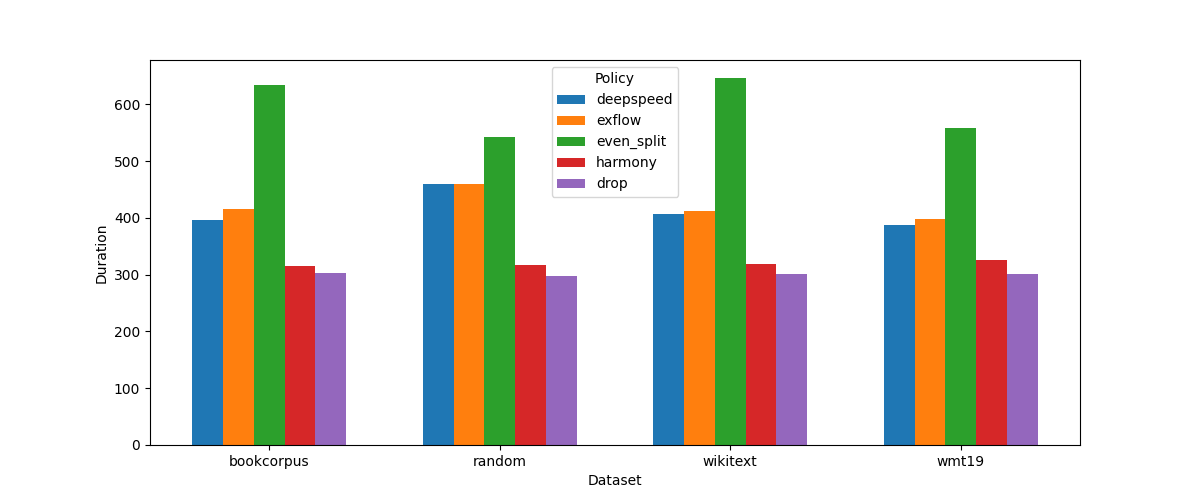
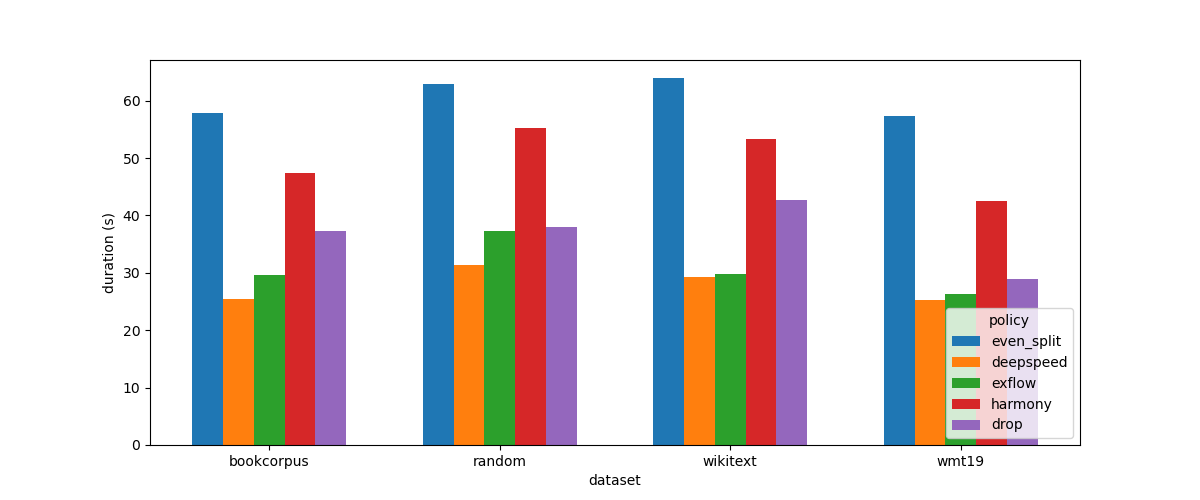
Did some stuff, no idea what, look at the changes?

diff --git a/plotting/plotting/plot_policy_dataset.py b/plotting/plotting/plot_policy_dataset.py
@@ -4,48 +4,51 @@ import pandas as pd
 import numpy as np
 from utils import save_plot
 
-policies = ["deepspeed", "exflow", "even_split", "harmony", "drop"]
+policies = ["even_split", "deepspeed", "exflow", "harmony", "drop"]
+
+ys = ["duration (s)", "throughput (toks/s)"]
 
 def plot_workload_duration_policy_vs_dataset():
     df = pd.read_csv(f"../data_processed/policies/dataset/workload_duration_policy_vs_dataset.csv", index_col=0)
 
     df["policy"] = pd.Categorical(df["policy"], categories=policies, ordered=True)
 
-    # Pivot the DataFrame
-    pivot_df = df.pivot(index="dataset", columns="policy", values="duration (s)")
+    for y in ys:
+        # Pivot the DataFrame
+        pivot_df = df.pivot(index="dataset", columns="policy", values=y)
 
-    # Define the bar width and positions
-    bar_width = 0.2
-    dataset_gap = 0.5 
-    num_policies = len(pivot_df.columns)
-    x_positions = []
-    current_x = 0
+        # Define the bar width and positions
+        bar_width = 0.2
+        dataset_gap = 0.5 
+        num_policies = len(pivot_df.columns)
+        x_positions = []
+        current_x = 0
 
-    for _ in range(len(pivot_df.index)):
-        x_positions.append(np.arange(current_x, current_x + num_policies * bar_width, bar_width))
-        current_x += num_policies * bar_width + dataset_gap
+        for _ in range(len(pivot_df.index)):
+            x_positions.append(np.arange(current_x, current_x + num_policies * bar_width, bar_width))
+            current_x += num_policies * bar_width + dataset_gap
 
-    x_positions = np.array(x_positions)
+        x_positions = np.array(x_positions)
 
-    fig, ax = plt.subplots(figsize=(12, 5))
+        fig, ax = plt.subplots(figsize=(12, 5))
 
-    color_palette = colormaps.get_cmap("tab10")  
-    policy_colors = {policy: color_palette(i) for i, policy in enumerate(policies)}
+        color_palette = colormaps.get_cmap("tab10")  
+        policy_colors = {policy: color_palette(i) for i, policy in enumerate(policies)}
 
-    for i, (dataset, positions) in enumerate(zip(pivot_df.index, x_positions)):
-        for j, sys in enumerate(pivot_df.columns):
-            ax.bar(positions[j], pivot_df.loc[dataset, sys], width=bar_width, color=policy_colors[sys], label=sys if i == 0 else "")
+        for i, (dataset, positions) in enumerate(zip(pivot_df.index, x_positions)):
+            for j, sys in enumerate(pivot_df.columns):
+                ax.bar(positions[j], pivot_df.loc[dataset, sys], width=bar_width, color=policy_colors[sys], label=sys if i == 0 else "")
 
-    # Flatten x_positions for xticks and add gaps for visualization
-    flat_x_positions = [positions.mean() for positions in x_positions]
+        # Flatten x_positions for xticks and add gaps for visualization
+        flat_x_positions = [positions.mean() for positions in x_positions]
 
-    ax.set_xticks(flat_x_positions)
-    ax.set_xticklabels(pivot_df.index)
-    ax.set_xlabel("Dataset")
-    ax.set_ylabel("Duration")
-    ax.legend(title="Policy")
+        ax.set_xticks(flat_x_positions)
+        ax.set_xticklabels(pivot_df.index)
+        ax.set_xlabel("dataset")
+        ax.set_ylabel(y)
+        ax.legend(title="policy", loc="lower right")
 
-    save_plot(plt, "../figures/policies/dataset/workload_duration_policy_vs_dataset.png")
+        save_plot(plt, f"../figures/policies/dataset/workload_{y.split(" ")[0]}_policy_vs_dataset.png")
 
 if __name__ == "__main__":
     plot_workload_duration_policy_vs_dataset()

diff --git a/quickies/verification.py b/quickies/verification.py
@@ -1,0 +1,65 @@
+import pandas as pd
+import sys
+import os
+import json
+
+if len(sys.argv) < 2:
+    print(f"USAGE: python3 {sys.argv[0]} run_dir")
+    exit(1)
+
+path = sys.argv[1]
+with open(os.path.join(path, "data.json")) as f:
+    meta = json.load(f)
+
+num_layers = 12
+num_gpus = meta["world_size"]
+batch_size = meta["batch_size"]
+seq_len = meta["seq_len"]
+num_layers_encoder = 6
+num_toks_per_batch_encoder = batch_size * seq_len * num_gpus
+num_toks_per_batch_decoder = batch_size * num_gpus
+
+def verify_num_toks_processed():
+    for layer_idx in range(num_layers):
+        df = None
+        for gpu_idx in range(num_gpus):
+            _df = pd.read_csv(os.path.join(path, f"{gpu_idx}/moe_layer-{layer_idx}.csv"), index_col=0)
+            _df = _df[["total number of tokens recv"]]
+            if df is None:
+                df = _df
+            else:
+                df["total number of tokens recv"] += _df["total number of tokens recv"]
+        df = df.iloc[:-1]
+        comparison = num_toks_per_batch_encoder if layer_idx < num_layers_encoder else num_toks_per_batch_decoder
+        all_correct = (df["total number of tokens recv"] == comparison).all()
+        if not all_correct:
+            print(f"TOKENS LOST ISSUE: layer {layer_idx}")
+
+def get_imbalance():
+    df = None
+    for layer_idx in range(num_layers_encoder):
+        _df = None
+        for gpu_idx in range(num_gpus):
+            __df = pd.read_csv(os.path.join(path, f"{gpu_idx}/moe_layer-{layer_idx}.csv"), index_col=0)
+            __df = __df[["total number of tokens recv"]]
+            __df = __df.rename(columns={"total number of tokens recv": gpu_idx})
+            if _df is None:
+                _df = __df
+            else:
+                _df = _df.merge(__df, how="outer", on="iteration")
+        _df = _df.iloc[:-1]
+        _df["max"] = _df.max(axis=1)
+        _df["min"] = _df.min(axis=1)
+        _df["imbalance"] = (_df["max"] - _df["min"]) / _df["min"]
+        _df = _df[["imbalance"]]
+        _df = _df.rename(columns={"imbalance": layer_idx})
+        
+        if df is None:
+            df = _df
+        else:
+            df = df.merge(_df, how="outer", on="iteration")
+    print(df)
+
+if __name__ == "__main__":
+    verify_num_toks_processed()
+    get_imbalance()

diff --git a/src/harmonymoe/scheduler.py b/src/harmonymoe/scheduler.py
@@ -346,7 +346,8 @@ class Scheduler:
 
         return schedule
     
-    def schedule_harmony_2(self, meta):
+    # Would be better with less tokens 
+    def schedule_harmony(self, meta):
         schedule = self.schedule_fixed(meta)
 
         avg = meta.sum().item() // self.num_gpus
@@ -381,21 +382,17 @@ class Scheduler:
 
                 if tokens_to_move <= 0:
                     break # We may have removed self.eq_tokens which is < than the amount overloaded
-                
-                # if self.rank == 0:
-                #     print(f"GPU {sender_idx} has {tokens_to_move} of expert {expert_idx} to send to GPU {least_idx} instead of GPU {overloaded_idx}")
 
                 tokens_send = torch.min(tokens_to_move, avg - gpu_amt[least_idx])
 
-                schedule[sender_idx, expert_idx, overloaded_idx] -= tokens_send
+                schedule[sender_idx, expert_idx, overloaded_idx] -= tokens_send # This will impact senders
                 schedule[sender_idx, expert_idx, least_idx] += tokens_send
 
                 gpu_amt[overloaded_idx] -= tokens_send
                 gpu_amt[least_idx] += tokens_send
 
                 amount_overloaded -= tokens_send
-                # senders[sender_idx] -= tokens_send
-                # We can just remove sender_idx from senders, but would it be more expensive?
+
 
         return schedule
 

diff --git a/src/harmonymoe/fetching_strategies/asynchronous_cpu.py b/src/harmonymoe/fetching_strategies/asynchronous_cpu.py
@@ -14,6 +14,7 @@ class AsynchronousCPU:
         self.expert_loaded = [
             torch.cuda.Event(enable_timing=False) for _ in range(config.num_experts)
         ]
+        self.finished_event = torch.cuda.Event(enable_timing=False)
 
         self.loaded_not_loaded = self.loaded_not_loaded_mixed
 
@@ -107,6 +108,7 @@ class AsynchronousCPU:
 
     def execute_job(self, tokens, expert_mask, schedule=None):
         expert_order, need_loading, slot_idxs = self.generate_work_order(expert_mask)
+        last_expert_exec = expert_order[-1] if len(expert_order) > 0 else None
 
         next_load_idx = 0
         for idx, expert_idx in enumerate(expert_order):
@@ -137,5 +139,12 @@ class AsynchronousCPU:
                 self.load_expert_into_slot(
                     self.local_cache[slot_idx], slot_idx
                 )
+            
+            if expert_idx == last_expert_exec:
+                if expert_idx != self.local_cache[slot_idx]:
+                    self.finished_event.record(stream=self.load_stream)
+                else:
+                    self.finished_event.record(stream=self.comp_stream)
 
+        self.finished_event.synchronize()
         return tokens

diff --git a/plotting/create_csv/create_csv_policy_dataset.py b/plotting/create_csv/create_csv_policy_dataset.py
@@ -4,7 +4,7 @@ import pandas as pd
 import ast
 import os
 
-directory_path = "../data/policies/dataset"
+directory_path = "../outputs/exp-policies-dataset"
 data = Data(directory_path)
 
 policies = ["deepspeed", "exflow", "even_split", "harmony", "drop"]
@@ -16,10 +16,12 @@ def create_workload_duration_policy_vs_dataset():
     for policy in policies:
         for dataset in datasets:
             _df = data.load(f"{dataset}/{policy}/0/e2e.csv")
+            meta = data.read_meta(f"{dataset}/{policy}")
             df.append({
                 "policy": policy,
                 "dataset": dataset,
-                "duration (s)": _df["latency (s)"].sum(axis=0)
+                "duration (s)": _df["latency (s)"].sum(axis=0),
+                "throughput (toks/s)": meta["num_samples"] / _df["latency (s)"].sum(axis=0)
             })
     save_pd(pd.DataFrame(df), "../data_processed/policies/dataset/workload_duration_policy_vs_dataset.csv")
 

diff --git a/plotting/plotting/plot_policy_skew.py b/plotting/plotting/plot_policy_skew.py
@@ -4,7 +4,7 @@ import pandas as pd
 import numpy as np
 from utils import save_plot
 
-policies = ["deepspeed", "exflow", "even_split", "harmony", "drop"]
+policies = ["even_split", "deepspeed", "exflow", "harmony", "drop"]
 datasets = [0.0, 0.5, 0.9]
 num_moe_layers = 12
 
@@ -50,7 +50,7 @@ def plot_workload_duration_policy_vs_dataset():
         ax.set_ylabel(y)
         ax.legend(title="policy")
 
-        save_plot(plt, f"../figures/policies/skew/workload_{y}_policy_vs_dataset.png")
+        save_plot(plt, f"../figures/policies/skew/workload_{y.split(" ")[0]}_policy_vs_dataset.png")
 
 if __name__ == "__main__":
     plot_workload_duration_policy_vs_dataset()

diff --git a/src/harmonymoe/expert_manager.py b/src/harmonymoe/expert_manager.py
@@ -83,7 +83,7 @@ class ExpertManager:
 
     def load_expert_into_slot(self, expert_idx, slot_idx):
         with torch.no_grad():
-            pinned_state_dict = self.experts[expert_idx]#.state_dict()
+            pinned_state_dict = self.experts[expert_idx]
             cached_expert = self.cached_experts[slot_idx]
             for name, param in cached_expert.named_parameters():
                 cpu_param = pinned_state_dict[name]

diff --git a/src/harmonymoe/moe_layer.py b/src/harmonymoe/moe_layer.py
@@ -209,7 +209,6 @@ class MoELayer(nn.Module):
         expert_mask = self.scheduler.generate_expert_mask(schedule, total_tokens)
         self.start_computation.record()
         self.expert_manager(tokens_recv, expert_mask, schedule=schedule)
-        torch.cuda.synchronize()
         self.end_computation.record()
 
         self.start_second_transfer.record()
